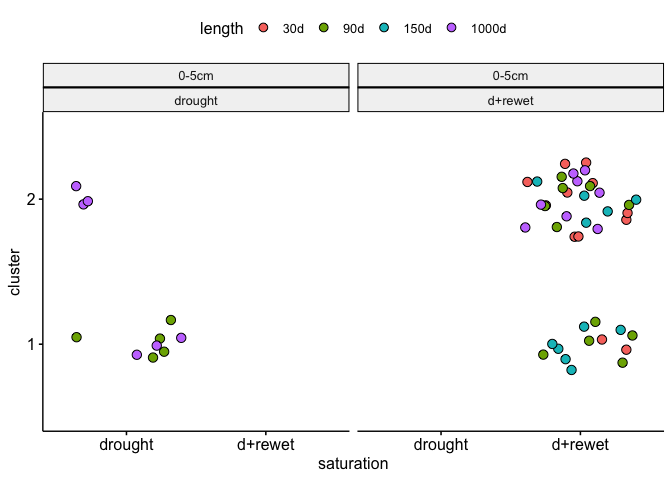
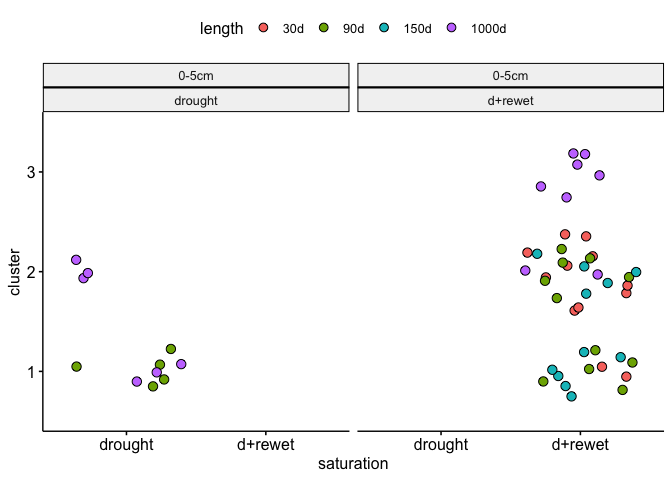
update icr clusters

diff --git a/3-reports/chemistry_report.md b/3-reports/chemistry_report.md
@@ -58,11 +58,12 @@ Click for details
 
 ![](chemistry_report_files/figure-gfm/icr_cluster-1.png)<!-- -->![](chemistry_report_files/figure-gfm/icr_cluster-2.png)<!-- -->![](chemistry_report_files/figure-gfm/icr_cluster-3.png)<!-- -->![](chemistry_report_files/figure-gfm/icr_cluster-4.png)<!-- -->
 
-    ## [1] "hierarchical clustering: two clusters"
+    ## [1] "hierarchical clustering: three clusters"
 
     ##   cluster  n
     ## 1       1 53
-    ## 2       2 59
+    ## 2       2 44
+    ## 3       3 15
 
 </details>
 
